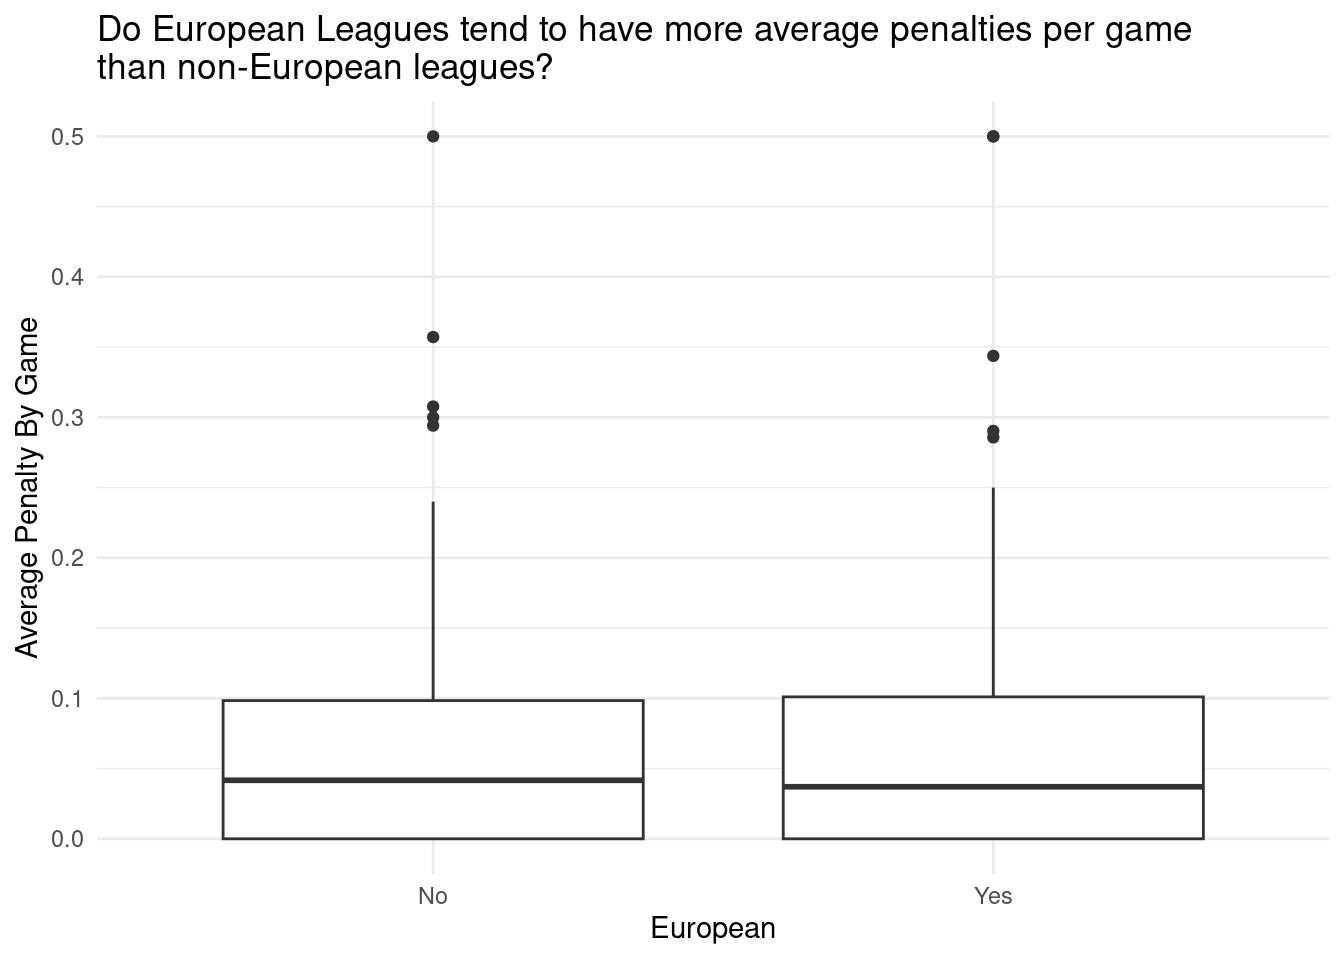
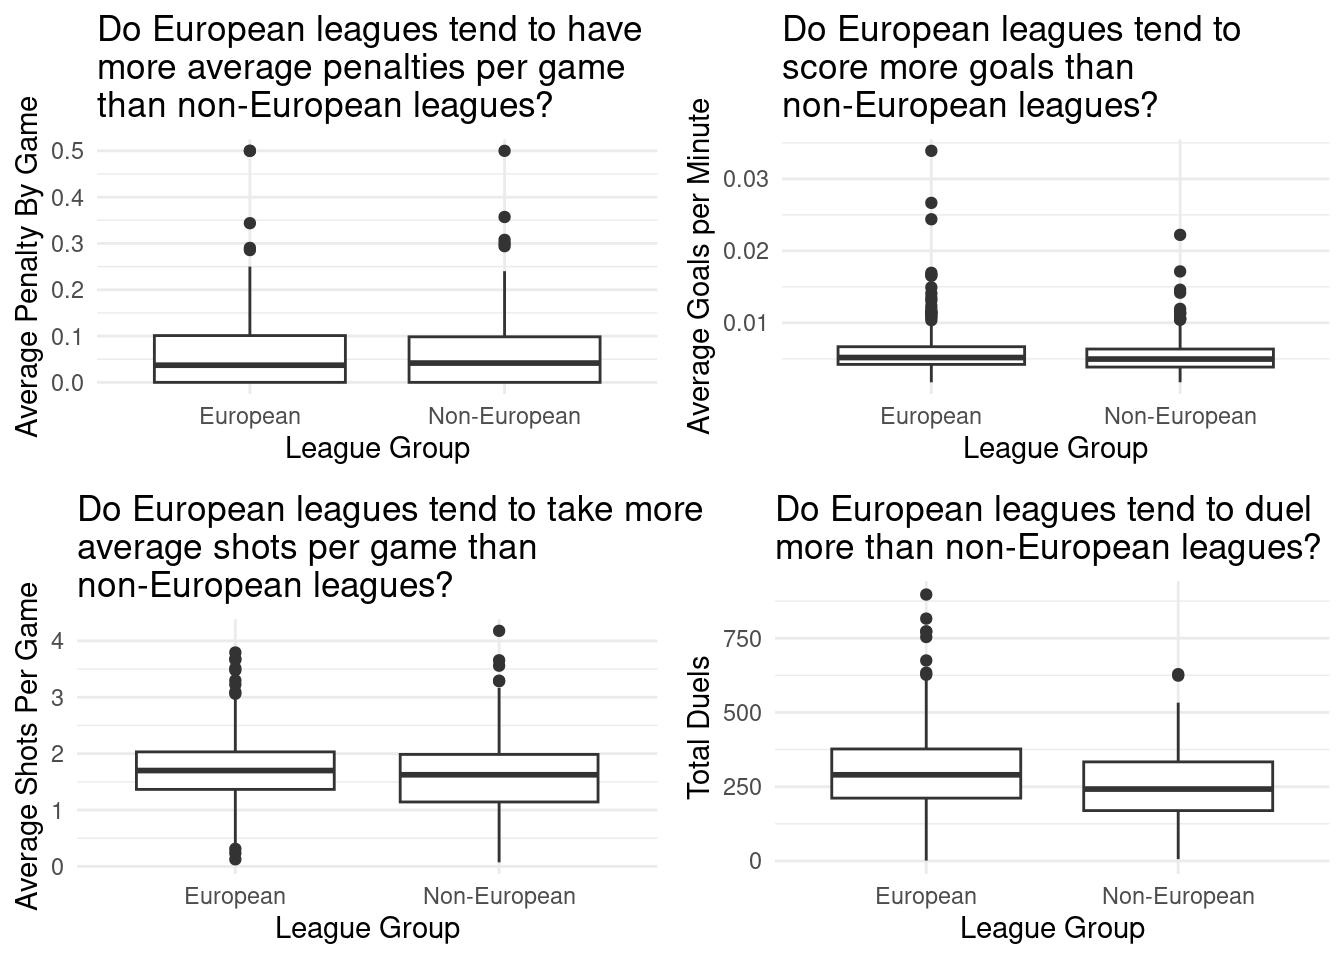
applied grid.arrange() to EDA to save space

diff --git a/docs/report.html b/docs/report.html
@@ -145,8 +145,8 @@ ul.task-list li input[type="checkbox"] {
   </ul></li>
   <li><a href="#evaluation-of-significance" id="toc-evaluation-of-significance" class="nav-link" data-scroll-target="#evaluation-of-significance">Evaluation of significance</a>
   <ul class="collapse">
-  <li><a href="#analysis-1-two-sided-hypothesis-test-for-difference-in-means-of-bookings-for-highly-rated-players-players-with-ratings-greater-than-or-equal-to-the-mean-player-rating-and-non-highly-rated-players-players-with-ratings-less-than-mean-player-rating" id="toc-analysis-1-two-sided-hypothesis-test-for-difference-in-means-of-bookings-for-highly-rated-players-players-with-ratings-greater-than-or-equal-to-the-mean-player-rating-and-non-highly-rated-players-players-with-ratings-less-than-mean-player-rating" class="nav-link" data-scroll-target="#analysis-1-two-sided-hypothesis-test-for-difference-in-means-of-bookings-for-highly-rated-players-players-with-ratings-greater-than-or-equal-to-the-mean-player-rating-and-non-highly-rated-players-players-with-ratings-less-than-mean-player-rating">Analysis #1: Two-sided hypothesis test for difference in means of bookings for highly rated players <strong>(players with ratings greater than or equal to the mean player rating)</strong> and non-highly rated players <strong>(players with ratings less than mean player rating)</strong></a></li>
-  <li><a href="#analysis-2a-two-sided-hypothesis-test-for-difference-in-means-of-duels-for-european-leagues-and-non-european-leagues" id="toc-analysis-2a-two-sided-hypothesis-test-for-difference-in-means-of-duels-for-european-leagues-and-non-european-leagues" class="nav-link" data-scroll-target="#analysis-2a-two-sided-hypothesis-test-for-difference-in-means-of-duels-for-european-leagues-and-non-european-leagues"><strong>Analysis #2a:</strong> Two-sided hypothesis test for difference in means of duels for European leagues and non-European leagues</a></li>
+  <li><a href="#analysis-1-two-sided-hypothesis-test-for-difference-in-means-of-bookings-for-highly-rated-players-players-with-ratings-greater-than-or-equal-to-the-mean-player-rating-and-non-highly-rated-players-players-with-ratings-less-than-mean-player-rating" id="toc-analysis-1-two-sided-hypothesis-test-for-difference-in-means-of-bookings-for-highly-rated-players-players-with-ratings-greater-than-or-equal-to-the-mean-player-rating-and-non-highly-rated-players-players-with-ratings-less-than-mean-player-rating" class="nav-link" data-scroll-target="#analysis-1-two-sided-hypothesis-test-for-difference-in-means-of-bookings-for-highly-rated-players-players-with-ratings-greater-than-or-equal-to-the-mean-player-rating-and-non-highly-rated-players-players-with-ratings-less-than-mean-player-rating">Analysis #1: Two-sided hypothesis test for difference in means of bookings for highly rated players (players with ratings greater than or equal to the mean player rating) and non-highly rated players (players with ratings less than mean player rating)</a></li>
+  <li><a href="#analysis-2a-two-sided-hypothesis-test-for-difference-in-means-of-duels-for-european-leagues-and-non-european-leagues" id="toc-analysis-2a-two-sided-hypothesis-test-for-difference-in-means-of-duels-for-european-leagues-and-non-european-leagues" class="nav-link" data-scroll-target="#analysis-2a-two-sided-hypothesis-test-for-difference-in-means-of-duels-for-european-leagues-and-non-european-leagues">Analysis #2a: Two-sided hypothesis test for difference in means of duels for European leagues and non-European leagues</a></li>
   <li><a href="#analysis-2b-two-sided-hypothesis-test-for-difference-in-means-of-average-goals-per-minute-for-european-leagues-and-non-european-leagues" id="toc-analysis-2b-two-sided-hypothesis-test-for-difference-in-means-of-average-goals-per-minute-for-european-leagues-and-non-european-leagues" class="nav-link" data-scroll-target="#analysis-2b-two-sided-hypothesis-test-for-difference-in-means-of-average-goals-per-minute-for-european-leagues-and-non-european-leagues">Analysis #2b: Two-sided hypothesis test for difference in means of average goals per minute for European leagues and non-European leagues</a></li>
   </ul></li>
   <li><a href="#interpretation-and-conclusions" id="toc-interpretation-and-conclusions" class="nav-link" data-scroll-target="#interpretation-and-conclusions">Interpretation and conclusions</a>
@@ -240,15 +240,6 @@ ul.task-list li input[type="checkbox"] {
 <div class="cell-output-display">
 <p><img src="report_files/figure-html/eda-plots-1-2.png" class="img-fluid" width="672"></p>
 </div>
-<div class="cell-output-display">
-<p><img src="report_files/figure-html/eda-plots-1-3.png" class="img-fluid" width="672"></p>
-</div>
-<div class="cell-output-display">
-<p><img src="report_files/figure-html/eda-plots-1-4.png" class="img-fluid" width="672"></p>
-</div>
-<div class="cell-output-display">
-<p><img src="report_files/figure-html/eda-plots-1-5.png" class="img-fluid" width="672"></p>
-</div>
 </div>
 <p>Based on our EDA, there appeared as though non-highly ranked players were booked more than highly ranked players, where highly ranked players were rated greater than or equal to the mean player rating, and non-highly ranked players were rated less than the mean player rating.</p>
 </section>
@@ -279,15 +270,6 @@ ul.task-list li input[type="checkbox"] {
 <div class="cell-output-display">
 <p><img src="report_files/figure-html/analysis-plots-2-1.png" class="img-fluid" width="672"></p>
 </div>
-<div class="cell-output-display">
-<p><img src="report_files/figure-html/analysis-plots-2-2.png" class="img-fluid" width="672"></p>
-</div>
-<div class="cell-output-display">
-<p><img src="report_files/figure-html/analysis-plots-2-3.png" class="img-fluid" width="672"></p>
-</div>
-<div class="cell-output-display">
-<p><img src="report_files/figure-html/analysis-plots-2-4.png" class="img-fluid" width="672"></p>
-</div>
 </div>
 <p>Based on the EDA, it is difficult to discern whether there which leagues are more than aggressive than others.</p>
 </section>
@@ -297,13 +279,13 @@ ul.task-list li input[type="checkbox"] {
 <div class="cell">
 <div class="cell-output cell-output-stdout">
 <pre><code># A tibble: 5 × 5
-  term                 estimate std.error statistic     p.value
-  &lt;chr&gt;                   &lt;dbl&gt;     &lt;dbl&gt;     &lt;dbl&gt;       &lt;dbl&gt;
-1 (Intercept)          -1.98      0.489      -4.04  0.0000528  
-2 avg_penalty_by_game  -2.76      1.51       -1.82  0.0686     
-3 avg_goals_per_min   305.       65.9         4.62  0.00000387 
-4 avg_shots_per_game   -0.196     0.210      -0.932 0.351      
-5 duels_total           0.00564   0.00106     5.29  0.000000120</code></pre>
+  term                  estimate std.error statistic     p.value
+  &lt;chr&gt;                    &lt;dbl&gt;     &lt;dbl&gt;     &lt;dbl&gt;       &lt;dbl&gt;
+1 (Intercept)            1.98      0.489       4.04  0.0000528  
+2 avg_penalty_by_game    2.76      1.51        1.82  0.0686     
+3 avg_goals_per_min   -305.       65.9        -4.62  0.00000387 
+4 avg_shots_per_game     0.196     0.210       0.932 0.351      
+5 duels_total           -0.00564   0.00106    -5.29  0.000000120</code></pre>
 </div>
 </div>
 <p>Based on our results, average goals per minute and total duels were the only predictors with p-values &lt; the significance level, 0.05 (at 3.869903e-06 and 1.195738e-07, respectively). In the following section, we will conduct a hypothesis test to evaluate the difference in “aggressiveness” of European and non-European leagues.</p>
@@ -313,7 +295,7 @@ ul.task-list li input[type="checkbox"] {
 <section id="evaluation-of-significance" class="level1">
 <h1>Evaluation of significance</h1>
 <section id="analysis-1-two-sided-hypothesis-test-for-difference-in-means-of-bookings-for-highly-rated-players-players-with-ratings-greater-than-or-equal-to-the-mean-player-rating-and-non-highly-rated-players-players-with-ratings-less-than-mean-player-rating" class="level2">
-<h2 class="anchored" data-anchor-id="analysis-1-two-sided-hypothesis-test-for-difference-in-means-of-bookings-for-highly-rated-players-players-with-ratings-greater-than-or-equal-to-the-mean-player-rating-and-non-highly-rated-players-players-with-ratings-less-than-mean-player-rating">Analysis #1: Two-sided hypothesis test for difference in means of bookings for highly rated players <strong>(players with ratings greater than or equal to the mean player rating)</strong> and non-highly rated players <strong>(players with ratings less than mean player rating)</strong></h2>
+<h2 class="anchored" data-anchor-id="analysis-1-two-sided-hypothesis-test-for-difference-in-means-of-bookings-for-highly-rated-players-players-with-ratings-greater-than-or-equal-to-the-mean-player-rating-and-non-highly-rated-players-players-with-ratings-less-than-mean-player-rating">Analysis #1: Two-sided hypothesis test for difference in means of bookings for highly rated players (players with ratings greater than or equal to the mean player rating) and non-highly rated players (players with ratings less than mean player rating)</h2>
 <ul>
 <li><p>Null Hypothesis: The true population mean for bookings of highly rated players and non-highly rated players are not different. <span class="math inline">\(H_0 = \mu_{high} - \mu_{non-high} = 0\)</span></p></li>
 <li><p>Alternative Hypothesis: The true population mean for bookings of highly rated players and non-highly rated players are different. <span class="math inline">\(H_A = \mu_{high} - \mu_{non-high} \not= 0\)</span></p></li>
@@ -332,7 +314,7 @@ ul.task-list li input[type="checkbox"] {
 <p><em>Conclusion:</em> The p-value (0.02) is less than alpha i.e.&nbsp;significance level of 0.05, therefore we reject the null hypothesis. The data provides convincing evidence that the true population mean for bookings of highly rated players and non-highly rated players are different.</p>
 </section>
 <section id="analysis-2a-two-sided-hypothesis-test-for-difference-in-means-of-duels-for-european-leagues-and-non-european-leagues" class="level2">
-<h2 class="anchored" data-anchor-id="analysis-2a-two-sided-hypothesis-test-for-difference-in-means-of-duels-for-european-leagues-and-non-european-leagues"><strong>Analysis #2a:</strong> Two-sided hypothesis test for difference in means of duels for European leagues and non-European leagues</h2>
+<h2 class="anchored" data-anchor-id="analysis-2a-two-sided-hypothesis-test-for-difference-in-means-of-duels-for-european-leagues-and-non-european-leagues">Analysis #2a: Two-sided hypothesis test for difference in means of duels for European leagues and non-European leagues</h2>
 <ul>
 <li><p>Null hypothesis: The true population mean of duels for European and non-European leagues are not different. <span class="math inline">\(H_0 = \mu_{EU} - \mu_{non-EU} = 0\)</span></p></li>
 <li><p>Alternative hypothesis: The true population mean of duels for European and non-European leagues are different. <span class="math inline">\(H_A = \mu_{EU} - \mu_{non-EU} \not= 0\)</span></p></li>
@@ -414,11 +396,11 @@ ul.task-list li input[type="checkbox"] {
 <div class="cell">
 <div class="cell-output cell-output-stdout">
 <pre><code># A tibble: 3 × 5
-  term               estimate std.error statistic     p.value
-  &lt;chr&gt;                 &lt;dbl&gt;     &lt;dbl&gt;     &lt;dbl&gt;       &lt;dbl&gt;
-1 (Intercept)        -1.90     0.473        -4.02 0.0000577  
-2 avg_goals_per_min 240.      54.8           4.38 0.0000120  
-3 duels_total         0.00483  0.000922      5.24 0.000000159</code></pre>
+  term                estimate std.error statistic     p.value
+  &lt;chr&gt;                  &lt;dbl&gt;     &lt;dbl&gt;     &lt;dbl&gt;       &lt;dbl&gt;
+1 (Intercept)          1.90     0.473         4.02 0.0000577  
+2 avg_goals_per_min -240.      54.8          -4.38 0.0000120  
+3 duels_total         -0.00483  0.000922     -5.24 0.000000159</code></pre>
 </div>
 </div>
 <p><span class="math display">\[ p = \frac{\exp\{-1.903256924 + 240.017572079 \times average~gpm + 0.004831097 \times duels\}}{1 + \exp\{-1.903256924 + 240.017572079 \times average~gpm + 0.004831097 \times duels\}}\]</span></p>
